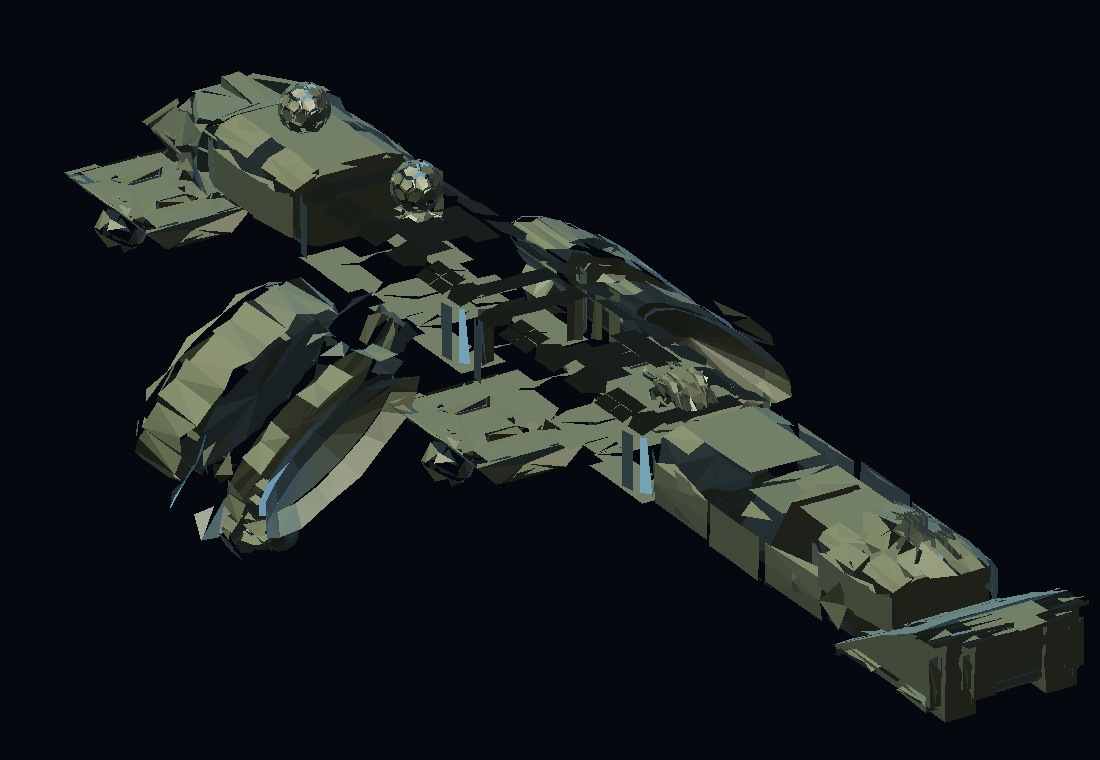
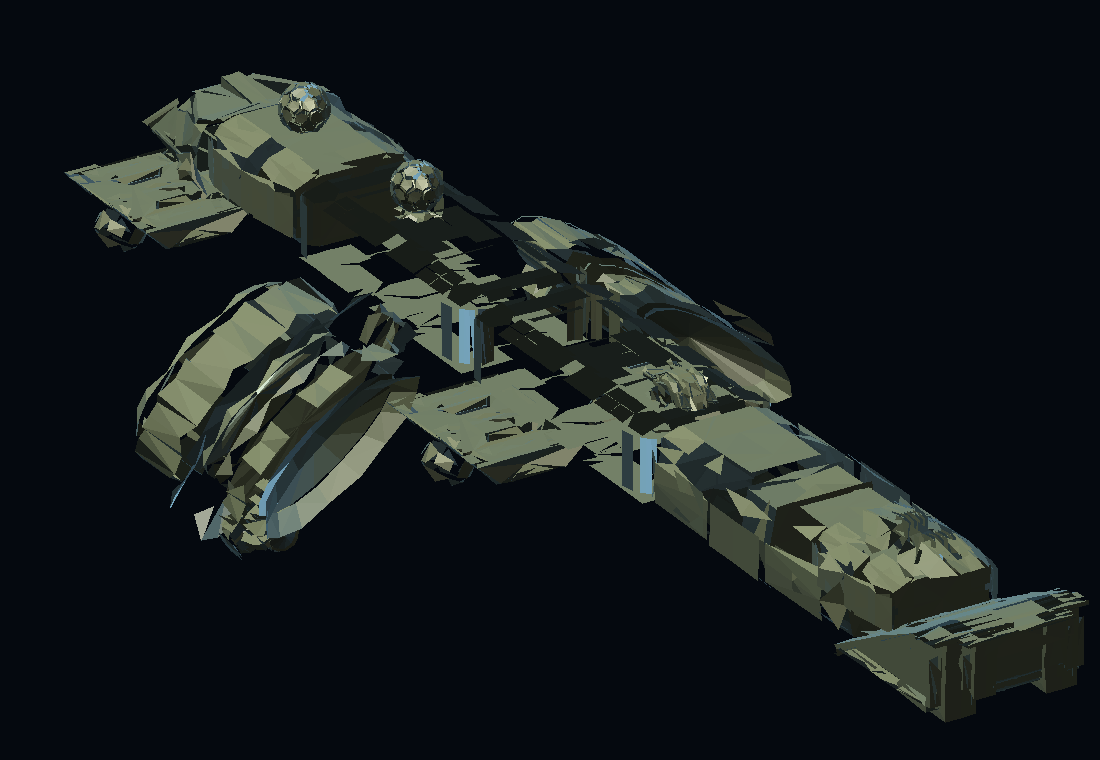
Star Destroyer: rows of connector cells, and the Falcon stops looking tiled
The Falcon's plates were butting on a half-metre pitch, so every seam and bevel
showed and the saucer read as a radiator grille; they now overlap by about 15%.

The Star Destroyer went through four wedges. Fanned wing plates read as fins (the
game wings are thin perforated panels, and stretching them stretches the spars and
the cut-outs). Tiled grid cells read as a grille for the same reason as the Falcon.
Habitation modules rendered as open corridors, because the habitation part is an
INTERIOR module with no roof. What works is rows of connector cells - solid boxes,
flat tops - overlapping enough to bury the bevels, stepping from two cells at the
bow to eight at the stern. The three failures are recorded in the code, since they
are the informative part.

Engines and turbolasers re-anchored to the wedge's actual rows.

diff --git a/src/lib/iconics/ships-capital.ts b/src/lib/iconics/ships-capital.ts
@@ -9,7 +9,7 @@
  */
 
 import { chainZ, type LatticePlacement } from "../lattice";
-import { atTip, deg, fin, hanging, pod, prong, put, row, span, spanPair, standing } from "./dsl";
+import { atTip, deg, fin, hanging, pod, prong, put, row, span, spanPair, standing, surfaceAt } from "./dsl";
 import { compact, recipeFor } from "./recipe";
 import type { Blueprint } from "../types";
 import type { NamedRecipe } from "../fleet";
@@ -31,14 +31,17 @@ export function millenniumFalcon(bp: Blueprint): NamedRecipe {
   for (let z = -R; z <= R + 1e-6; z += pitch) {
     const half = Math.sqrt(Math.max(0, R * R - z * z));
     for (let x = -half; x <= half + 1e-6; x += pitch) {
-      // taper the outer rings so the edge of the disc steps down instead of
-      // ending in a square shoulder
+      // Half-metre plates on a half-metre pitch would BUTT exactly, and butting
+      // plates show every seam and bevel: the saucer came out looking like a
+      // radiator grille. Overlapping them ~15% welds the disc into one surface
+      // and the outline is still the circle, because the cells are placed on the
+      // circle in the first place.
       const r = Math.hypot(x, z) / R;
-      const scale = r > 0.9 ? 0.42 : r > 0.7 ? 0.46 : 0.5;
+      const scale = r > 0.92 ? 0.5 : 0.58;
       parts.push(
-        put("B_CON_5", [Number(x.toFixed(2)), r > 0.9 ? -0.16 : 0, Number(z.toFixed(2))], {
+        put("B_CON_5", [Number(x.toFixed(2)), 0, Number(z.toFixed(2))], {
           scale,
-          role: r > 0.9 ? "rim plate" : "saucer plate",
+          role: r > 0.92 ? "rim plate" : "saucer plate",
         }),
       );
     }
@@ -104,36 +107,63 @@ export function starDestroyer(bp: Blueprint): NamedRecipe {
     ]),
   );
 
-  // the wedge, built as three steps of flat plating that widen as they run aft:
-  // one big diagonal plate reads as fins, three read as a hull
-  parts.push(
-    ...spanPair("B_WNG_Q", [0.3, 0, 2.4], [2.9, 0, -0.6], { scale: 0.4, role: "hull plate fore" }),
-    ...spanPair("B_WNG_Q", [0.3, 0, 0.4], [4.2, 0, -2.6], { scale: 0.4, role: "hull plate mid" }),
-    ...spanPair("B_WNG_Q", [0.3, 0, -1.6], [5.6, 0, -5.4], { scale: 0.4, role: "hull plate aft" }),
-    ...spanPair("B_WNG_R", [0.4, -0.02, 1.8], [3.0, -0.02, -0.9], { scale: 0.3, role: "hull edge" }),
-  );
+  // The wedge: rows of connector cells across the hull, each row wider than the
+  // last. Four approaches were tried and three are recorded here because the
+  // failures are the informative part:
+  //
+  //   fanned wing plates   -> fins. The game wings are thin perforated panels;
+  //                           stretched to five units their spars become spikes
+  //                           and their cut-outs become holes.
+  //   tiled grid cells     -> a radiator grille. Every cell carries its own
+  //                           bevel, so the eye counts crates, not a hull.
+  //   habitation modules   -> those are INTERIOR parts: no roof, so the rows
+  //                           render as open corridors.
+  //
+  // Connector cells are solid boxes with flat tops, and overlapping them by
+  // about a third buries the bevels. Rows of different widths then step from the
+  // bow to the wide stern, which is what the Workshop would let you lay.
+  const ROWS: [number, number, number][] = [
+    // [cells across the row, z, scale]
+    [2, 2.3, 0.8],
+    [4, 1.0, 1],
+    [6, -0.6, 1],
+    [8, -2.4, 1],
+    [8, -4.1, 1],
+  ];
+  for (const [across, z, sc] of ROWS) {
+    for (let i = 0; i < across; i++) {
+      const x = (i - (across - 1) / 2) * (0.95 * sc);
+      parts.push(put("B_CON_5", [Number(x.toFixed(2)), 0, z], { scale: sc, role: "hull plate" }));
+    }
+  }
 
   // bridge tower with its two sensor globes, near the stern
   const tower: LatticePlacement[] = [];
-  tower.push(standing("B_ALK_B", parts, 0, -5.4, { role: "tower base" }) as LatticePlacement);
-  tower.push(standing("B_HAB1_A", [...parts, ...tower], 0, -5.4, { role: "tower deck" }) as LatticePlacement);
+  const TOWER_Z = -4.4;
+  tower.push(standing("B_ALK_B", parts, 0, TOWER_Z, { role: "tower base" }) as LatticePlacement);
   tower.push(
-    standing("B_HAB1_C", [...parts, ...tower], 0, -5.4, { role: "bridge" }) as LatticePlacement,
+    standing("B_HAB1_A", [...parts, ...tower], 0, TOWER_Z, { role: "tower deck" }) as LatticePlacement,
   );
   tower.push(
-    put("B_SHL_C", [0.55, 1.6, -5.4], { role: "sensor globe stbd" }),
-    put("B_SHL_C", [-0.55, 1.6, -5.4], { mirror: true, role: "sensor globe port" }),
-    put("B_SHL_A", [0, 1.75, -5.4], { role: "comms mast" }),
+    standing("B_HAB1_C", [...parts, ...tower], 0, TOWER_Z, { role: "bridge" }) as LatticePlacement,
+  );
+  const towerTop = surfaceAt([...parts, ...tower], -0.55, TOWER_Z);
+  tower.push(
+    put("B_SHL_C", [0.55, towerTop + 0.05, TOWER_Z], { role: "sensor globe stbd" }),
+    put("B_SHL_C", [-0.55, towerTop + 0.05, TOWER_Z], { mirror: true, role: "sensor globe port" }),
+    put("B_SHL_A", [0, towerTop + 0.05, TOWER_Z], { role: "comms mast" }),
   );
   parts.push(...compact(tower));
 
   // three big ion engines across the stern
   parts.push(
-    ...row("B_TRU_C", [-1.1, 0, 1.1], 0, -7.2, { role: "ion engine" }),
-    ...row("B_TRU_A", [-2.2, 2.2], 0, -7.0, { role: "ion engine" }),
-    put("B_TUR_F", [0, 0.45, 3.4], { role: "bow turbolaser" }),
-    put("B_TUR_B", [0.6, 0.4, 1.6], { role: "turbolaser" }),
-    put("B_TUR_B", [-0.6, 0.4, 1.6], { mirror: true, role: "turbolaser" }),
+    ...row("B_TRU_C", [-1.9, 0, 1.9], 0, -4.0, { role: "ion engine" }),
+    ...row("B_TRU_A", [-3.1, 3.1], 0, -4.0, { role: "ion engine" }),
+    hanging("B_TUR_F", parts, 0, 1.9, { role: "bow turbolaser" }) as LatticePlacement,
+    ...compact([
+      standing("B_TUR_B", parts, 0.95, 1.6, { role: "turbolaser" }),
+      standing("B_TUR_B", parts, -0.95, 1.6, { mirror: true, role: "turbolaser" }),
+    ]),
   );
 
   return recipeFor(bp, {
